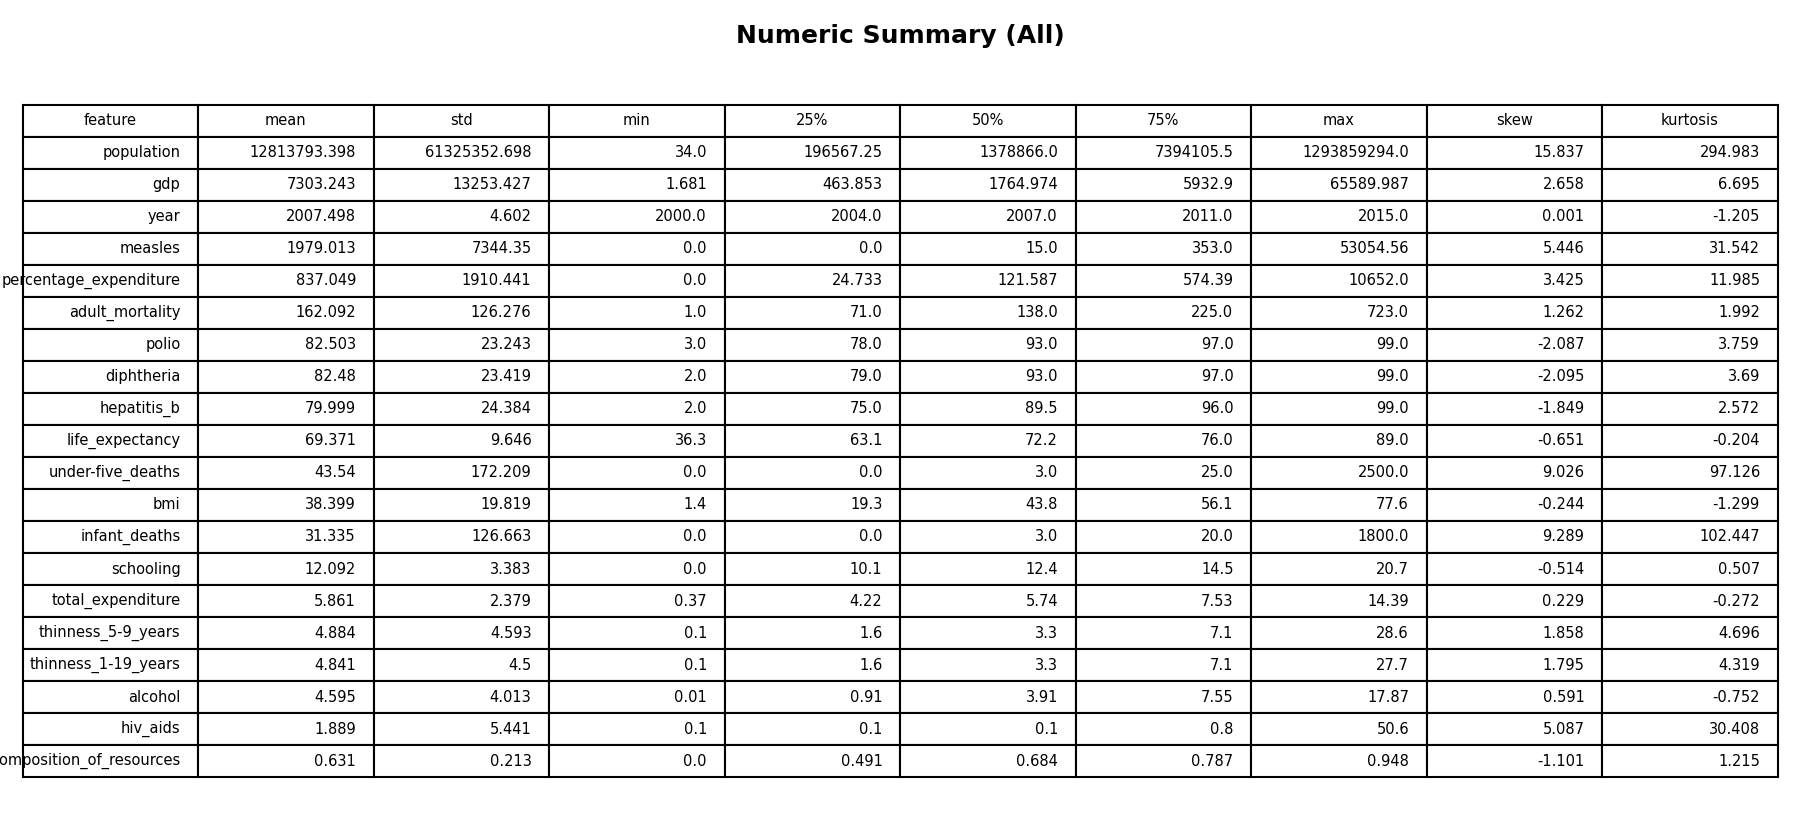
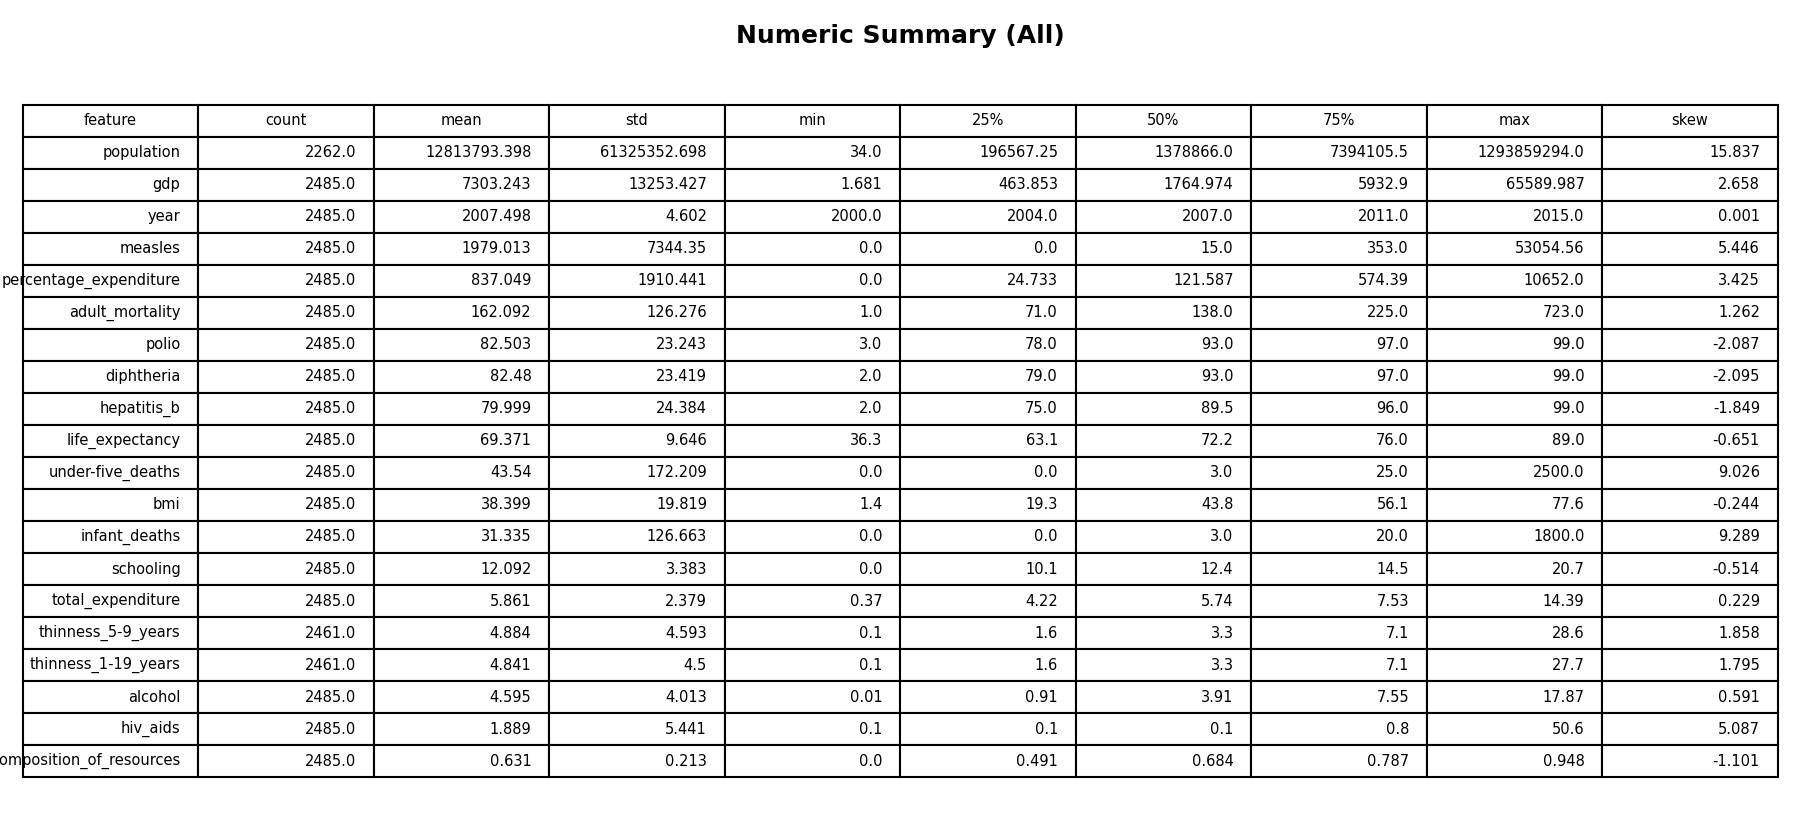
update

diff --git a/main.py b/main.py
@@ -224,6 +224,18 @@ def evaluate_dataset_statistics(df: pd.DataFrame, art: PipelineArtifacts):
             plt.savefig(art.figures_dir / f"II_hist_{col}.png", dpi=150)
             plt.close()
 
+            # Additionally, save log10(GDP) histogram if plotting GDP
+            if col == "gdp":
+                s = pd.to_numeric(num_df[col], errors="coerce").dropna()
+                s = s[s > 0]
+                if not s.empty:
+                    plt.figure(figsize=(6, 4))
+                    sns.histplot(np.log10(s), kde=True, bins=30)
+                    plt.title("Distribution of log10(gdp)")
+                    plt.tight_layout()
+                    plt.savefig(art.figures_dir / "II_hist_log_10_gdp.png", dpi=150)
+                    plt.close()
+
     # Categorical summary for a few known categoricals
     cat_cols = [c for c in ["country", "status", "year"] if c in df.columns]
     cat_info: Dict[str, Any] = {}
@@ -281,7 +293,7 @@ def evaluate_dataset_statistics(df: pd.DataFrame, art: PipelineArtifacts):
 
         # 3) Numeric summary table (all)
         if desc is not None and not desc.empty:
-            sel_cols = ["mean", "std", "min", "25%", "50%", "75%", "max", "skew", "kurtosis"]
+            sel_cols = ["count", "mean", "std", "min", "25%", "50%", "75%", "max", "skew"]
             present_cols = [c for c in sel_cols if c in desc.columns]
             num_table = desc[present_cols].round(3).copy()
             try:
@@ -303,6 +315,63 @@ def evaluate_dataset_statistics(df: pd.DataFrame, art: PipelineArtifacts):
             plt.tight_layout()
             plt.savefig(art.figures_dir / "II_dataset_eval_numeric_summary_table.png", dpi=150)
             plt.close()
+
+            # 3b) Numeric summary table (gdp, log10(gdp), life_expectancy)
+            try:
+                present_cols = [c for c in ["count", "mean", "std", "min", "25%", "50%", "75%", "max", "skew"] if c in desc.columns]
+                rows = []
+                index_names = []
+
+                # gdp
+                if "gdp" in desc.index:
+                    rows.append(desc.loc["gdp", present_cols])
+                    index_names.append("gdp")
+
+                # log10(gdp)
+                if "gdp" in num_df.columns:
+                    s = pd.to_numeric(num_df["gdp"], errors="coerce").dropna()
+                    s = s[s > 0]
+                    if not s.empty:
+                        log_s = np.log10(s)
+                        log_desc = log_s.describe(percentiles=[0.25, 0.5, 0.75])
+                        log_skew = log_s.skew()
+                        # Build a row aligned with present_cols
+                        log_row = {k: None for k in present_cols}
+                        for k in ["count", "mean", "std", "min", "25%", "50%", "75%", "max"]:
+                            if k in present_cols and k in log_desc:
+                                log_row[k] = float(log_desc[k])
+                        if "skew" in present_cols:
+                            log_row["skew"] = float(log_skew)
+                        rows.append(pd.Series(log_row))
+                        index_names.append("log10(gdp)")
+
+                # life_expectancy
+                if "life_expectancy" in desc.index:
+                    rows.append(desc.loc["life_expectancy", present_cols])
+                    index_names.append("life_expectancy")
+
+                if rows:
+                    sub_tbl = pd.DataFrame(rows)
+                    sub_tbl.index = index_names
+                    sub_tbl = sub_tbl.round(3)
+                    # Insert feature column and reset index
+                    sub_tbl.insert(0, "feature", sub_tbl.index)
+                    sub_tbl = sub_tbl.reset_index(drop=True)
+
+                    fig_h = 2 + 0.18 * max(3, len(sub_tbl))
+                    plt.figure(figsize=(10, fig_h))
+                    ax = plt.gca()
+                    ax.axis('off')
+                    ax.set_title("Numeric Summary (gdp, log10(gdp), life_expectancy)", fontweight='bold', pad=10)
+                    tbl = ax.table(cellText=sub_tbl.values, colLabels=sub_tbl.columns, loc='center')
+                    tbl.auto_set_font_size(False)
+                    tbl.set_fontsize(8)
+                    tbl.scale(1, 1.1)
+                    plt.tight_layout()
+                    plt.savefig(art.figures_dir / "II_dataset_eval_numeric_summary_table_gdp_life.png", dpi=150)
+                    plt.close()
+            except Exception:
+                pass
 
     except Exception:
         # Fail-safe: don't block pipeline if table rendering fails
